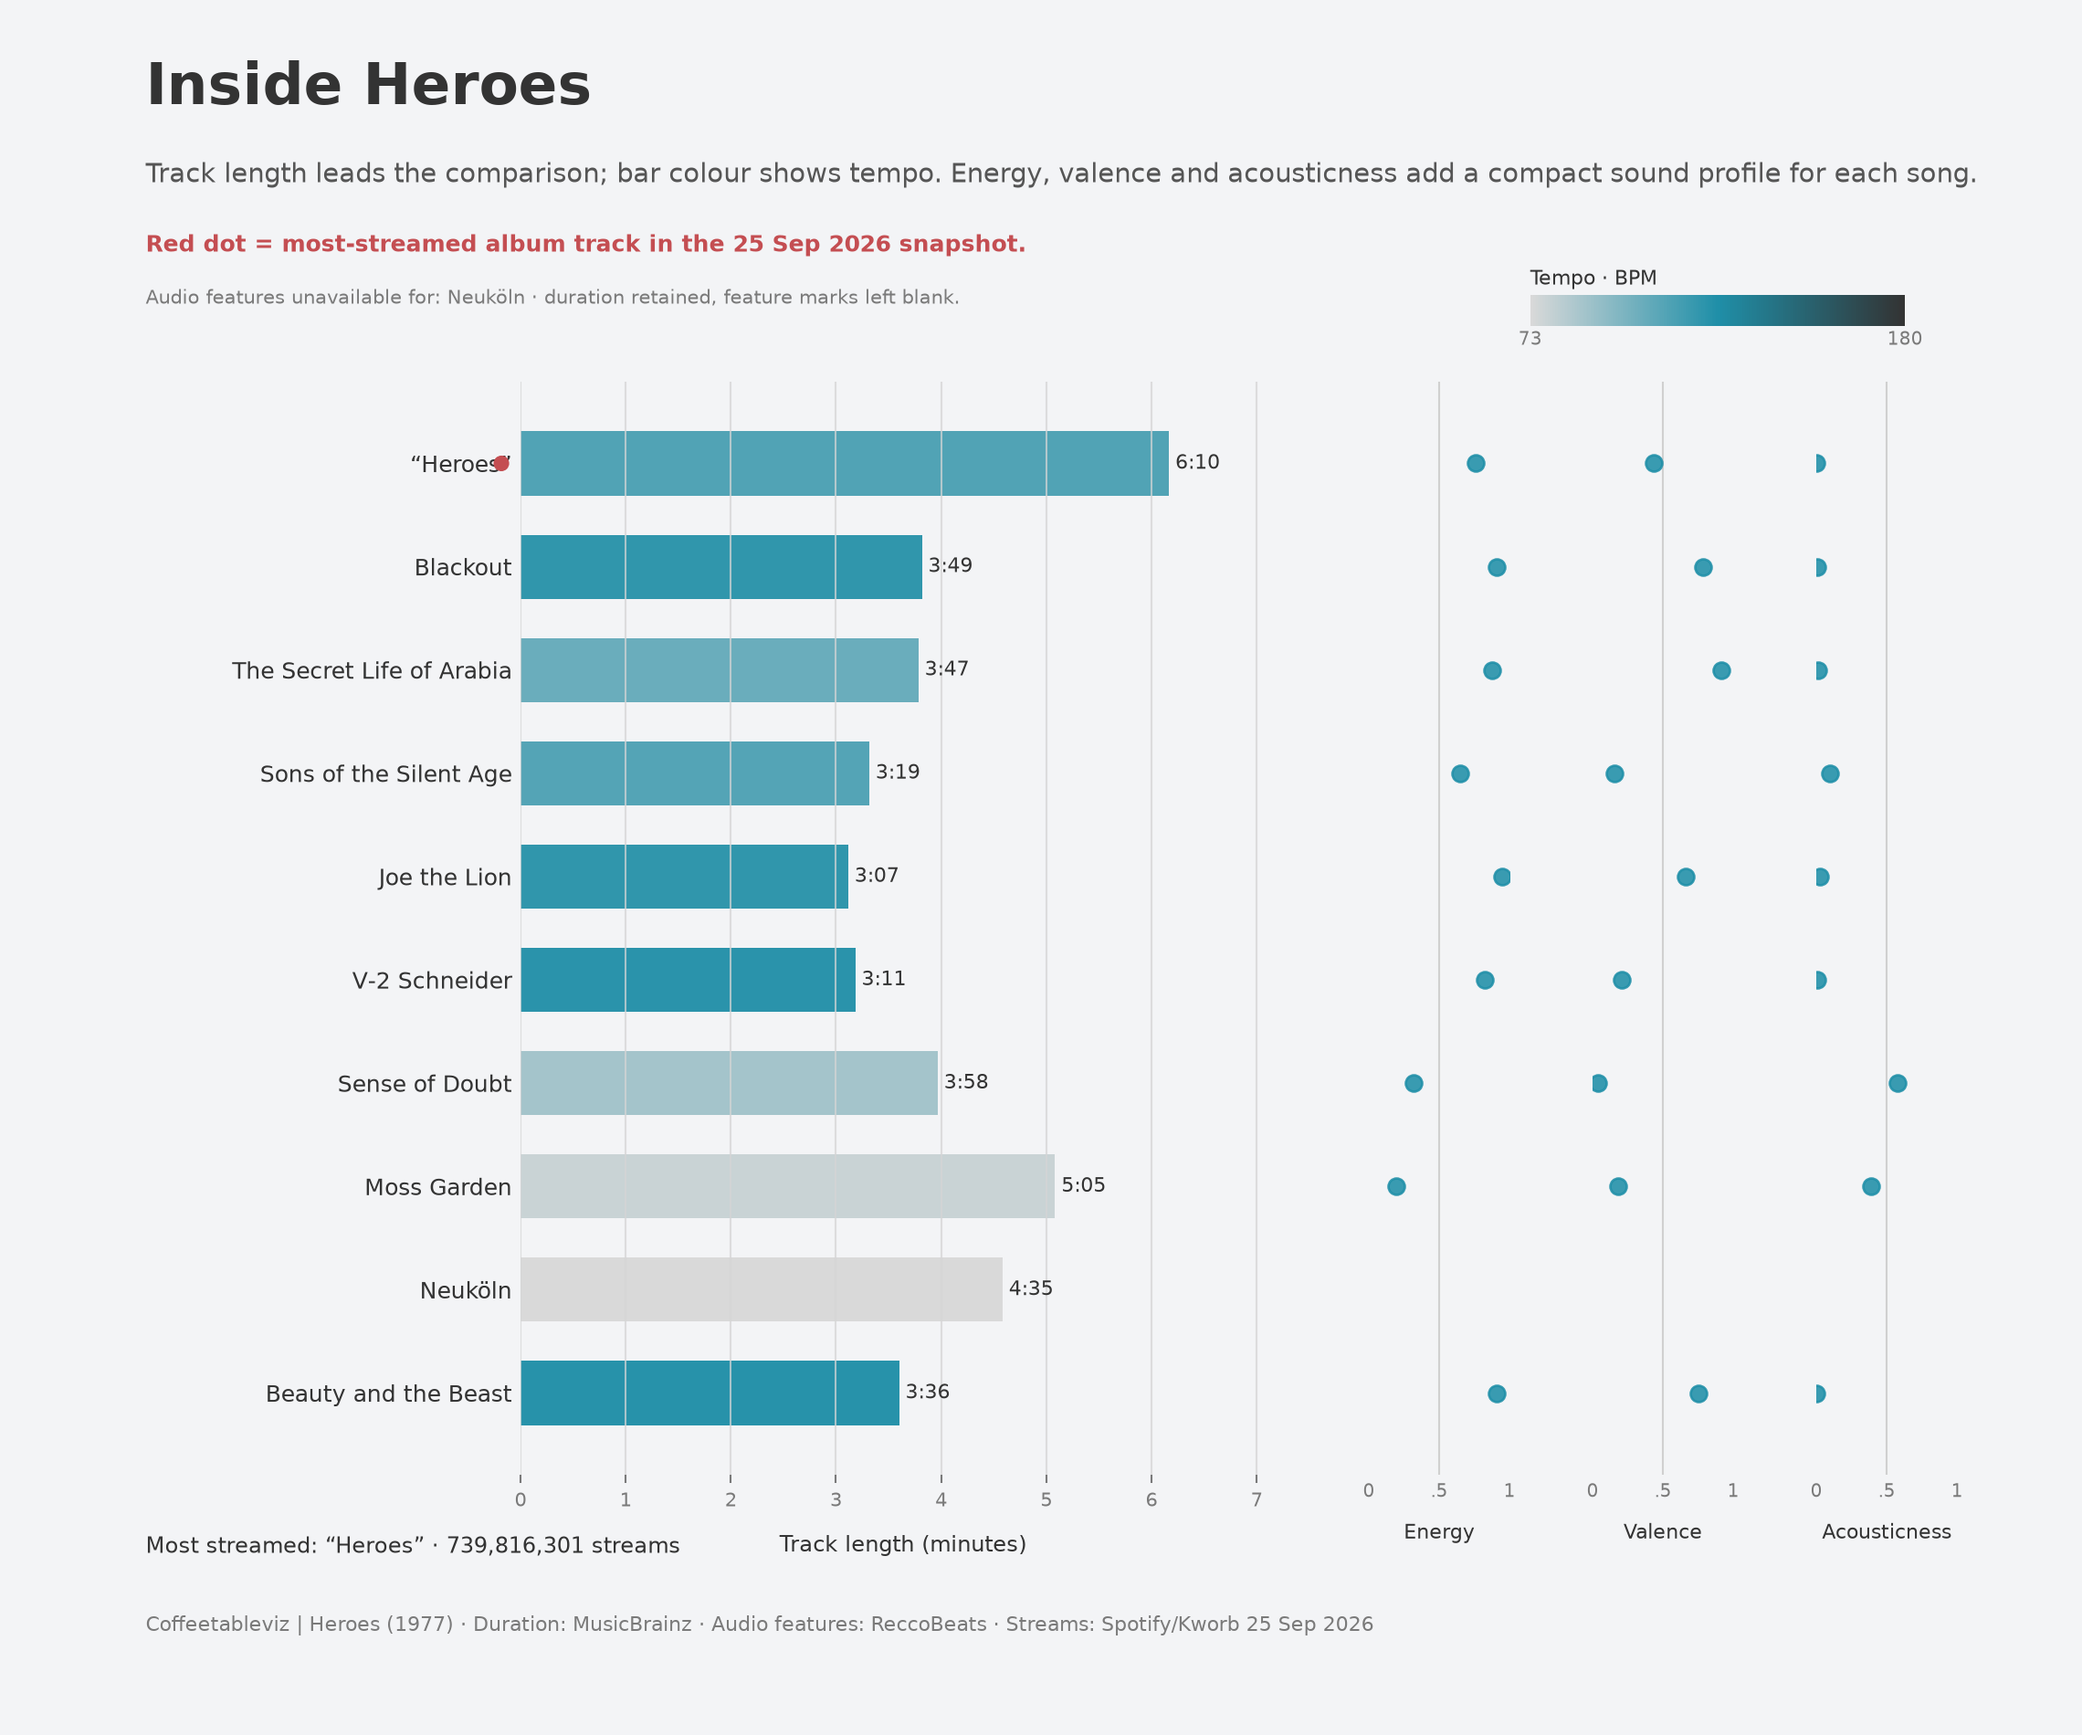
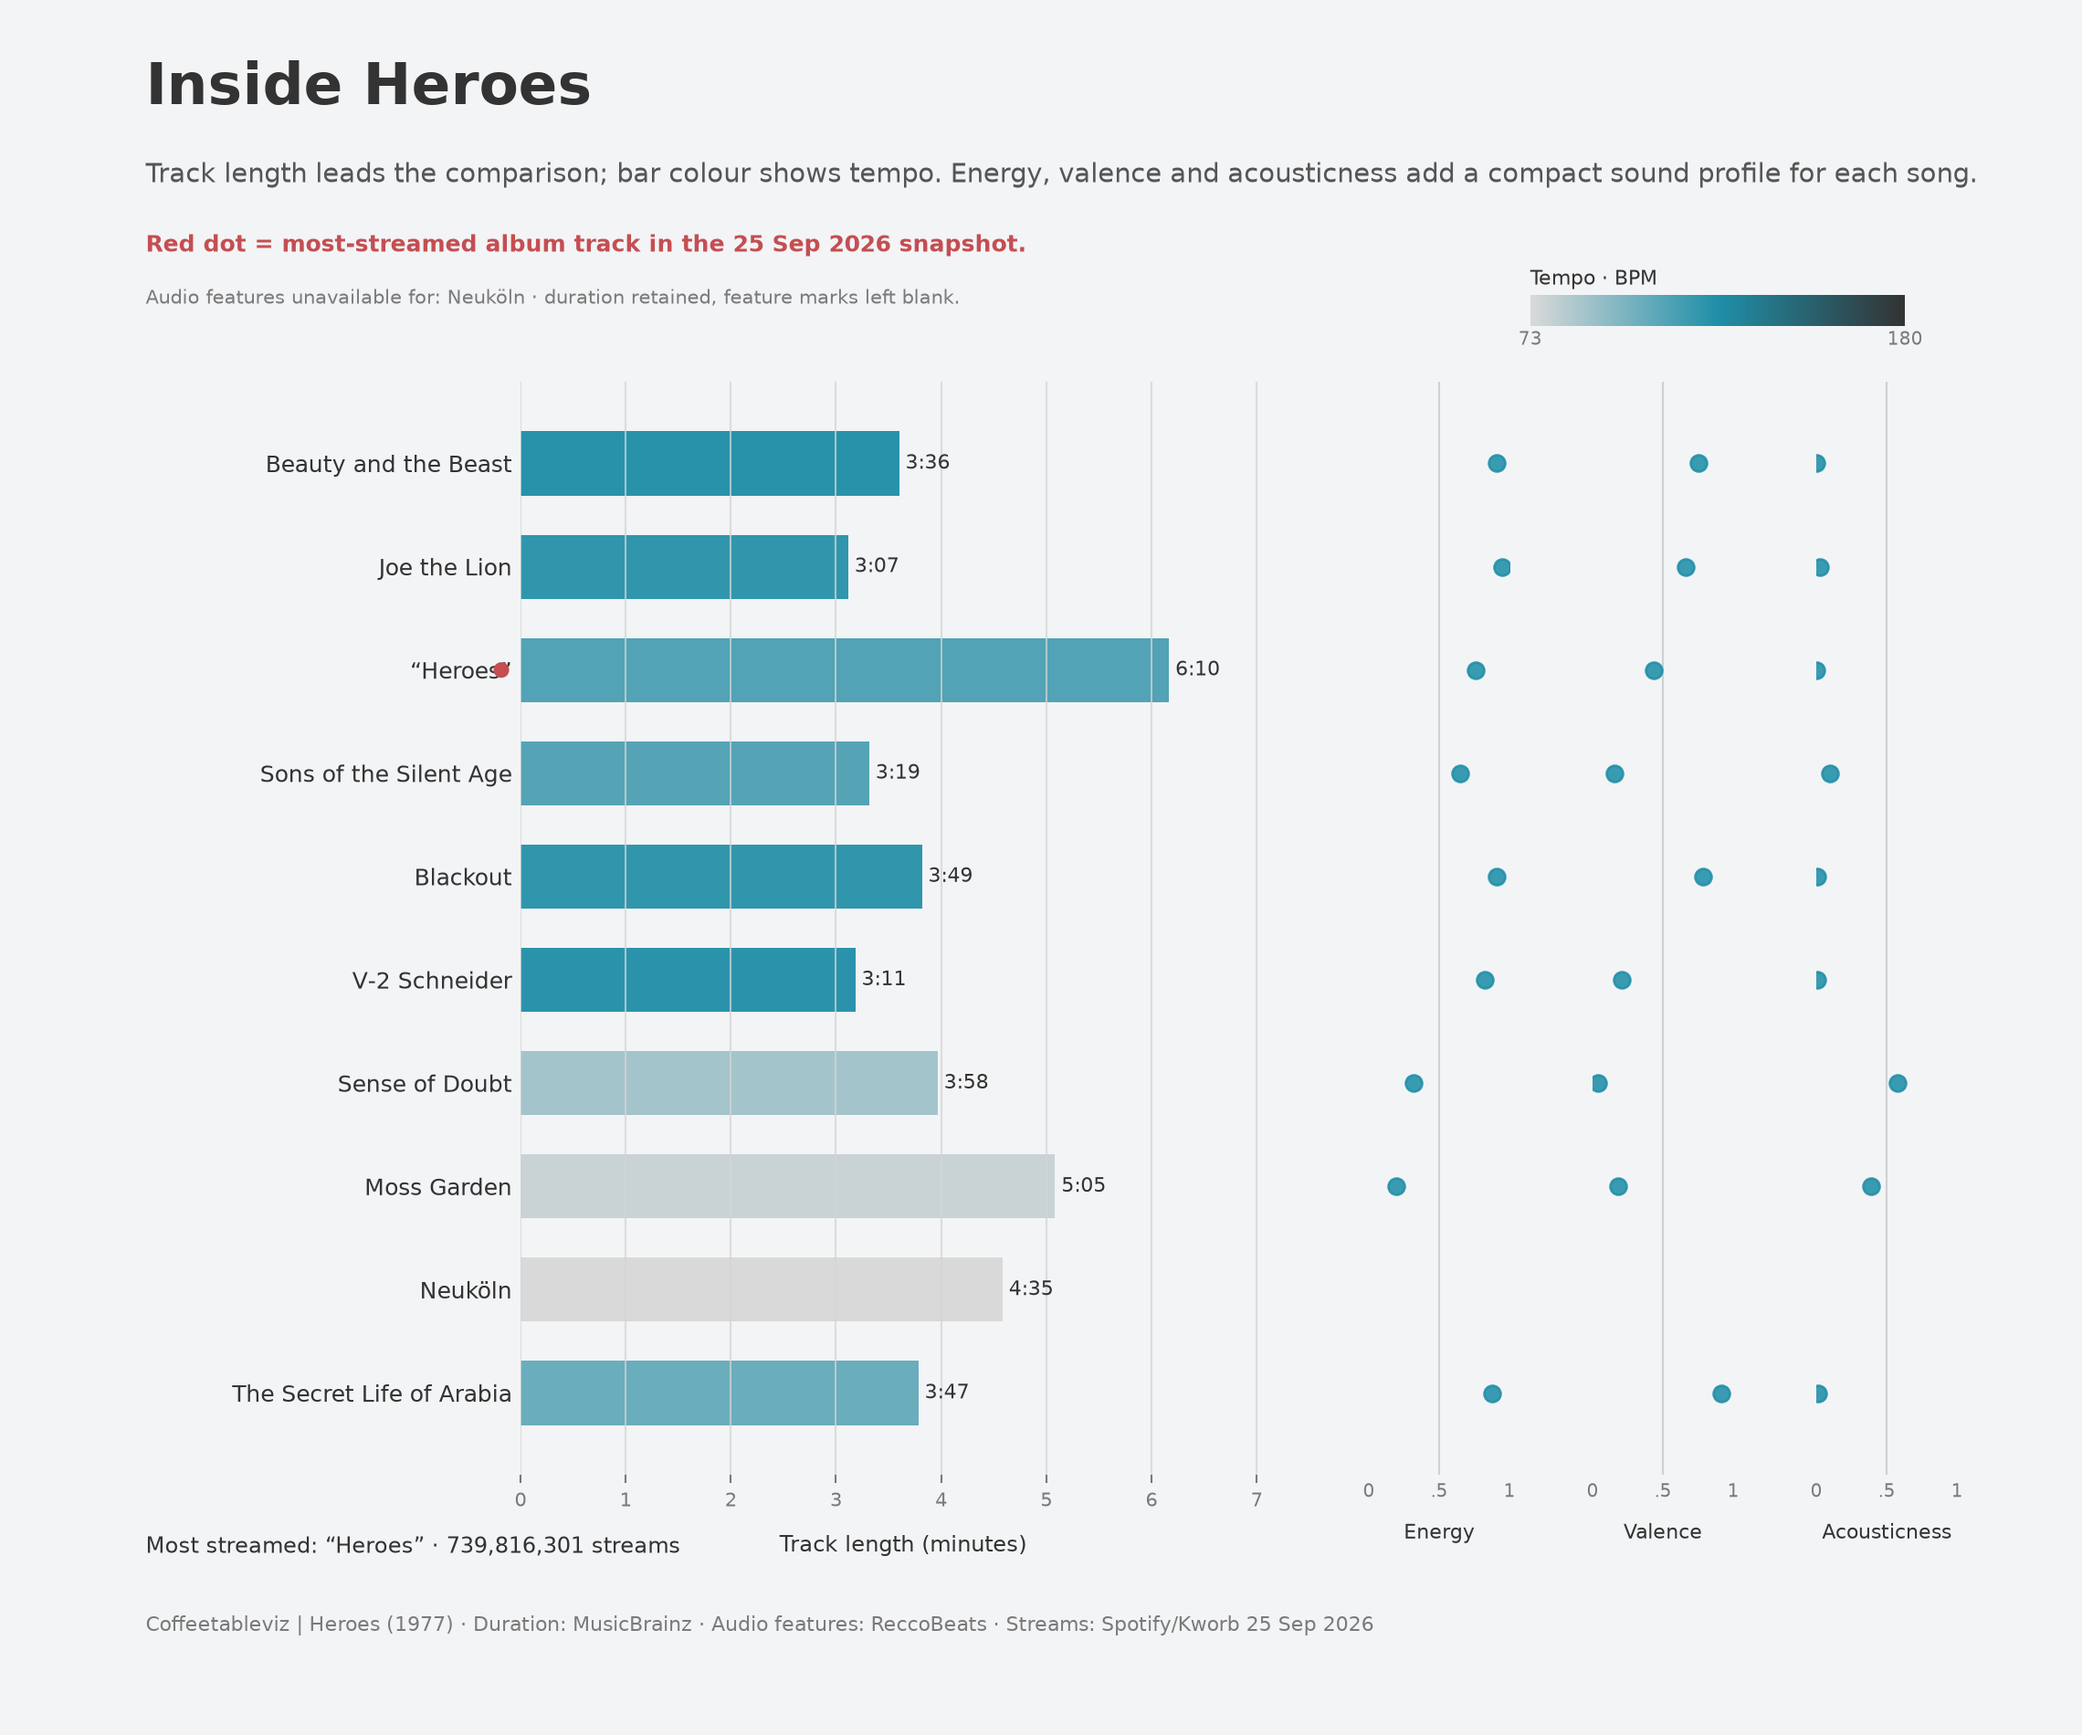
Finalize Bowie publication package after album-order QA

diff --git a/site/_posts/2026-09-27-can-one-bowie-song-tell-you-the-whole-album.md b/site/_posts/2026-09-27-can-one-bowie-song-tell-you-the-whole-album.md
@@ -183,7 +183,7 @@ It is just an entry point.
 
 <aside class="method-note">
   <h2>Method note</h2>
-  <p>The five albums were selected because they contain David Bowie's five most-streamed canonical studio tracks in a Spotify/Kworb snapshot dated 25 September 2026. Canonical track sequence and duration reuse the validated MusicBrainz-based Bowie dataset from the earlier track-length project. Audio descriptors are ReccoBeats Spotify-style audio features, not newly retrieved Spotify Web API Audio Features. The enriched dataset contains 53 canonical tracks, with confident audio-feature matches for 51. <em>Neuköln</em> and <em>(Don’t Sit Down)</em> retain their duration but have blank audio-feature marks; no values are imputed. Tempo uses one global colour scale across all five charts, while Energy, Valence and Acousticness use fixed 0–1 scales. These descriptors are model-derived characteristics and are used descriptively, not as objective judgements of artistic quality, mood or genre. Stream counts are context only and no causal relationship with the audio features is claimed.</p>
+  <p>The five albums were selected because they contain David Bowie's five most-streamed canonical studio tracks in a Spotify/Kworb snapshot dated 25 September 2026. Canonical track identity and duration reuse the validated MusicBrainz-based Bowie dataset from the earlier track-length project. Original album running order was checked against David Bowie's official album pages; the final <em>Heroes</em> chart uses the original 1977 sequence after correcting the parent spine. Audio descriptors are ReccoBeats Spotify-style audio features, not newly retrieved Spotify Web API Audio Features. The enriched dataset contains 53 canonical tracks, with confident audio-feature matches for 51. <em>Neuköln</em> and <em>(Don’t Sit Down)</em> retain their duration but have blank audio-feature marks; no values are imputed. Tempo uses one global colour scale across all five charts, while Energy, Valence and Acousticness use fixed 0–1 scales. These descriptors are model-derived characteristics and are used descriptively, not as objective judgements of artistic quality, mood or genre. On <em>Space Oddity</em>, the title track resolves to the 2009 remaster while the other accepted ReccoBeats feature rows resolve to 2019 Mix equivalents where exact 2015-remaster feature records were unavailable; canonical duration and stream fields still come from the validated parent spine. That makes fine-grained feature comparisons on this album slightly less version-pure than the other four. Stream counts are context only and no causal relationship with the audio features is claimed.</p>
 </aside>
 
 <p class="sign-off"><strong>simple charts clear stories.</strong></p>

diff --git a/archive/projects/2026-09-david-bowie-five-album-audio-features/content/publication_package.md b/archive/projects/2026-09-david-bowie-five-album-audio-features/content/publication_package.md
@@ -97,13 +97,14 @@ Square editorial illustration on a light-grey background showing one muted-red e
 ## Method / comparability notes
 
 - Five albums selected because they contain Bowie's five most-streamed canonical studio tracks in the **25 September 2026 Spotify/Kworb snapshot**.
-- Canonical track identity, sequence and duration reuse the validated MusicBrainz-based Bowie parent dataset.
+- Canonical track identity and duration reuse the validated MusicBrainz-based Bowie parent dataset. Original album running order was checked against David Bowie's official album pages; the final *Heroes* chart uses the official 1977 sequence after correcting the parent spine.
 - Current streams reuse the dated Spotify/Kworb snapshot.
 - Audio descriptors are **ReccoBeats Spotify-style audio features**, not newly retrieved Spotify Web API Audio Features.
 - ReccoBeats features retained in the dataset include acousticness, danceability, energy, instrumentalness, liveness, loudness, speechiness, tempo and valence.
 - Publication charts use Tempo, Energy, Valence and Acousticness.
 - 51 of 53 canonical tracks have confident audio-feature matches.
 - Missing: *Neuköln* on *Heroes* and *(Don’t Sit Down)* on *Space Oddity*. Their durations remain plotted and their feature marks are blank.
+- Version note: on *Space Oddity*, the title track resolves to the 2009 remaster while the other accepted ReccoBeats feature rows resolve to 2019 Mix equivalents where exact 2015-remaster feature records were unavailable. Canonical duration and stream fields still come from the validated parent spine. Treat fine-grained feature comparisons on this album as slightly less version-pure than the other four.
 - No missing audio-feature values are imputed.
 - The Tempo colour scale is global across all five charts; Energy, Valence and Acousticness use fixed 0–1 scales.
 - ReccoBeats values are descriptive model-derived audio descriptors. They should not be treated as objective judgements about artistic quality, mood or genre.
@@ -190,7 +191,7 @@ Five album profiles on coffeetableviz.com.
 - [x] Energy, Valence and Acousticness use consistent 0–1 scales.
 - [x] Red most-streamed marker is consistent and restrained.
 - [x] No chart title, subtitle or track label clipping found in visual QA.
-- [ ] Exact final chart PNGs copied byte-for-byte into site assets.
-- [ ] Feature image committed and referenced by Jekyll post.
-- [ ] Pages/Jekyll PR build passes.
+- [x] Exact final chart PNGs copied byte-for-byte into site assets.
+- [x] Feature image committed and referenced by Jekyll post.
+- [ ] Pages/Jekyll PR build passes on the final branch head.
 - [ ] Adam approves final publication package before merge.

diff --git a/archive/projects/2026-09-david-bowie-five-album-audio-features/project_manifest.md b/archive/projects/2026-09-david-bowie-five-album-audio-features/project_manifest.md
@@ -7,8 +7,9 @@
 - Scope: five albums associated with David Bowie's five most-streamed canonical studio tracks in the 25 September 2026 snapshot
 - Visual template: **duration + tempo + energy + valence + acousticness**
 - Analysis status: **complete**
-- Publication package: **complete; site packaging next**
+- Publication package: **complete**
 - PR: #80
+- Site packaging: **complete; final PR validation pending**
 - Publication status: not merged / not live
 
 ## Five-album scope
@@ -35,6 +36,7 @@ The source spine reuses the validated Bowie track dataset:
 - 51 confident ReccoBeats audio-feature matches
 - Missing feature rows: *Neuköln* and *(Don’t Sit Down)*
 - Missing rows retain canonical duration; no feature values are imputed
+- *Space Oddity* limitation: title-track features resolve to the 2009 remaster; the remaining accepted feature rows resolve to ReccoBeats 2019 Mix equivalents where exact 2015-remaster feature records were unavailable
 
 Coverage:
 - Ziggy Stardust: 11/11
@@ -45,7 +47,8 @@ Coverage:
 
 ## Source strategy
 
-- Canonical sequence/duration: validated MusicBrainz-based parent dataset
+- Canonical identity/duration: validated MusicBrainz-based parent dataset
+- Running order: checked against official David Bowie album pages; *Heroes* corrected to the original 1977 sequence before final render
 - Current streams: Spotify/Kworb snapshot dated 25 September 2026
 - Audio features: ReccoBeats Spotify-style descriptors
 - Matching hierarchy:
@@ -77,6 +80,13 @@ Coverage:
 
 The hit is sometimes surprisingly central (*Starman*), sometimes structurally unusual but sonically typical (*“Heroes”*), and sometimes a poor guide to the album around it (*Rebel Rebel*).
 
+## Site package
+
+- `site/_posts/2026-09-27-can-one-bowie-song-tell-you-the-whole-album.md`
+- `site/assets/migrated/david-bowie-five-album-audio-profiles/feature.svg`
+- five final chart PNGs under the same asset folder
+- final site PNGs are copied from the approved project outputs; *Heroes* was resynced after the running-order correction
+
 ## Next gate
 
-Copy the exact final charts into site assets, add the feature image and Jekyll post, run Pages/Jekyll QA, then hand PR #80 to Adam for final approval before merge.
+Remove the temporary order-rebuild workflow, run final PR/Jekyll validation, then hand PR #80 to Adam for approval before merge.
